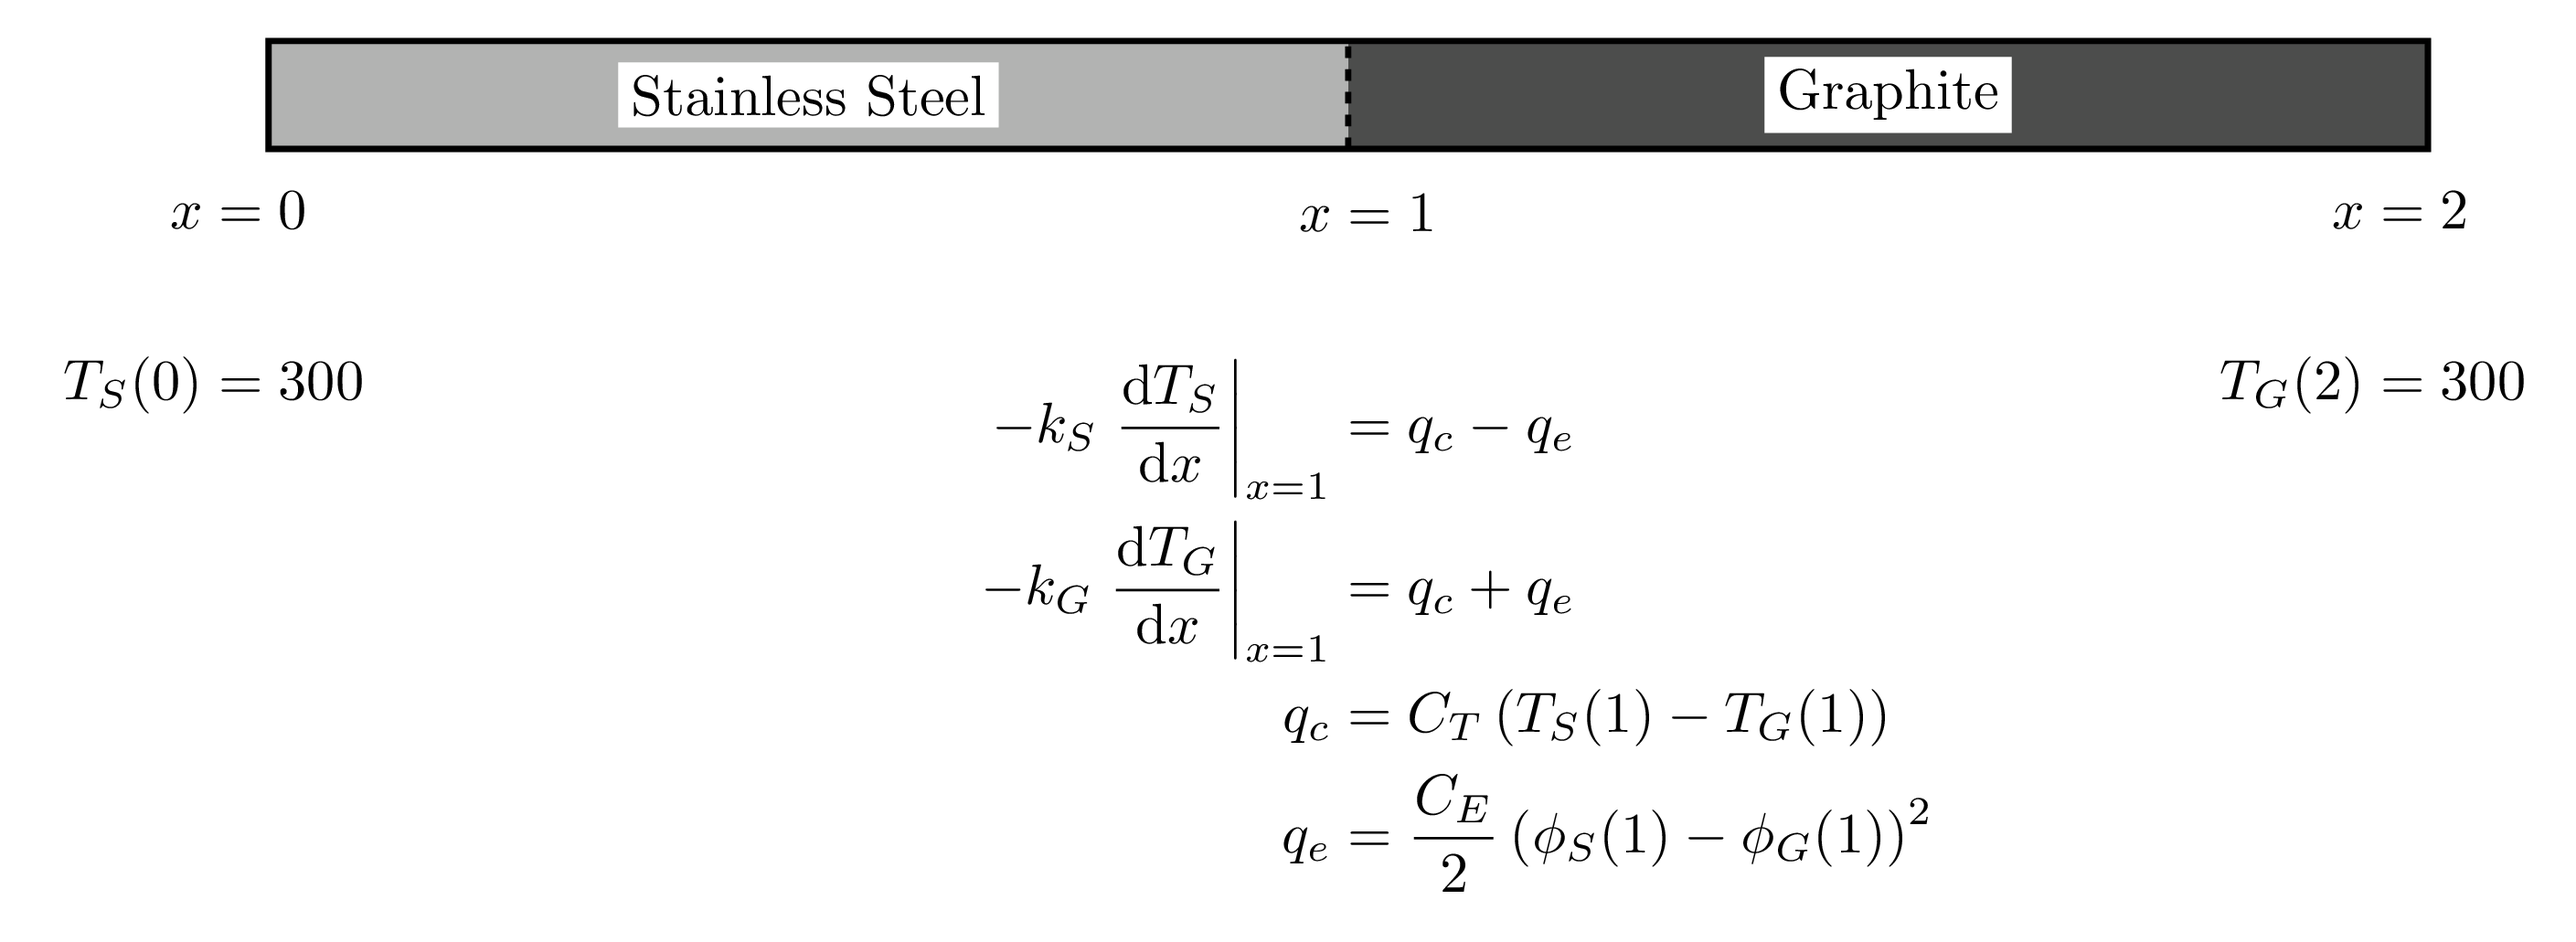
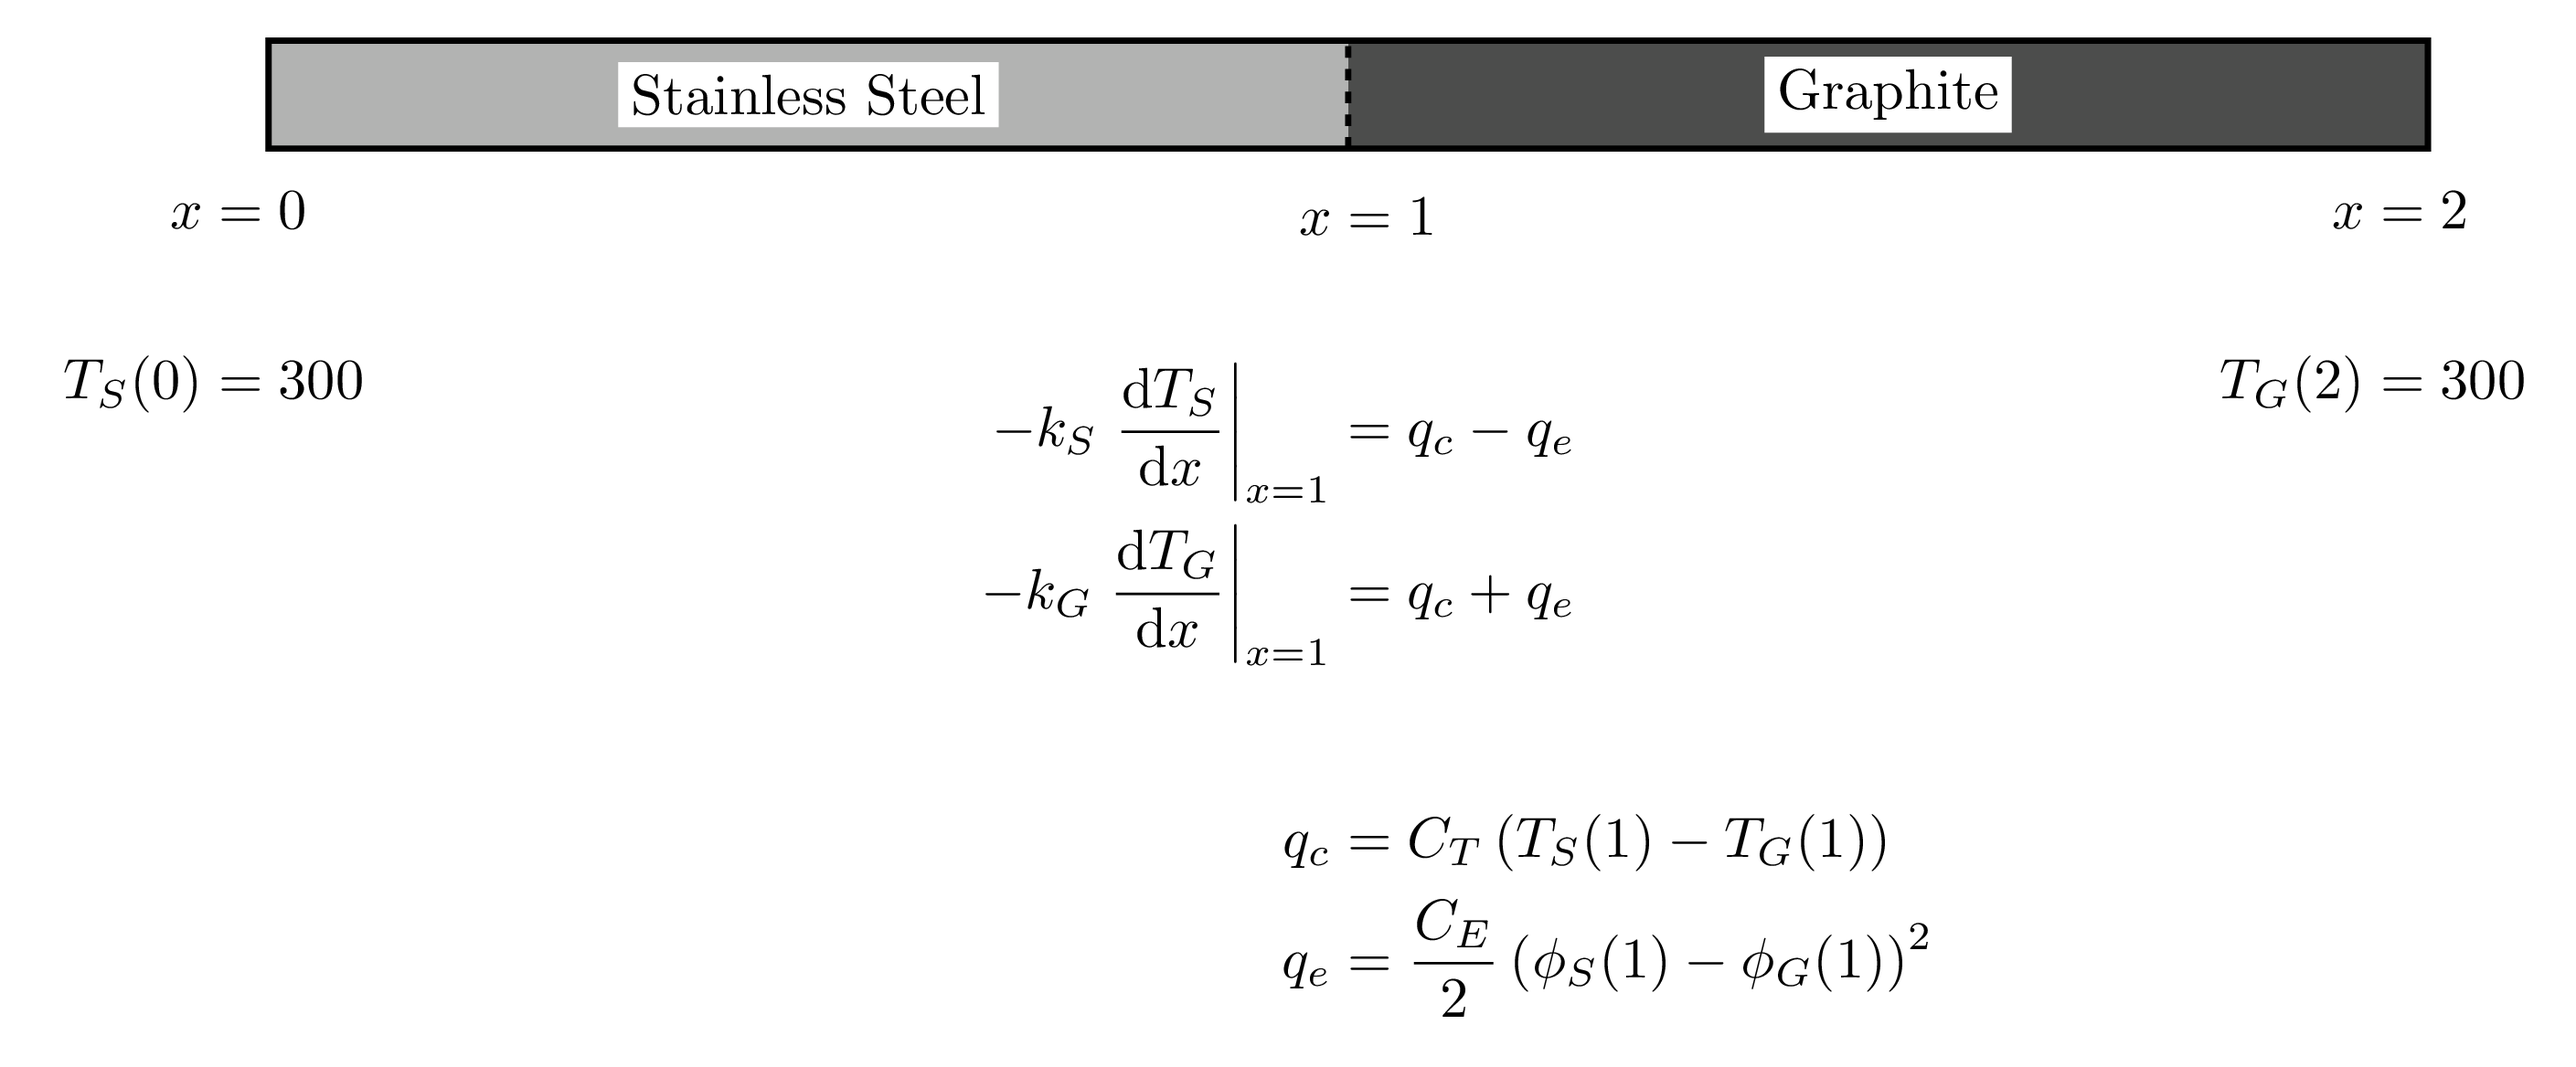
Address review comments (#13)

diff --git a/test/src/functions/ThermalContactTemperatureTestFunc.C b/test/src/functions/ThermalContactTemperatureTestFunc.C
@@ -66,8 +66,12 @@ ThermalContactTemperatureTestFunc::twoBlockFunction(const Point & p) const
   Real stainless_steel_gradient =
       -_electrical_contact_conductance * _electrical_conductivity_graphite / denominator_potential;
 
+  // Value of the analytic temperature function in graphite at the interface (x = 1).
+  // Far right constant value prescribed by problem conditions (see thermal_contact_verification.md)
   Real graphite_func_interface = graphite_gradient * (1. - 2.);
 
+  // Value of the analytic temperature function in stainless steel at the interface (x = 1)
+  // Far right constant value prescribed by problem conditions (see thermal_contact_verification.md)
   Real stainless_steel_func_interface = stainless_steel_gradient + 1.;
 
   // Analytic Temperature Function
@@ -105,11 +109,11 @@ ThermalContactTemperatureTestFunc::twoBlockFunction(const Point & p) const
 
   Real d_G = 300. - 4. * a_G - 2. * b_G;
 
-  if (_domain == STAINLESS_STEEL)
+  if (_domain == DomainEnum::STAINLESS_STEEL)
   {
     return a_SS * p(0) * p(0) + b_SS * p(0) + d_SS;
   }
-  else if (_domain == GRAPHITE)
+  else if (_domain == DomainEnum::GRAPHITE)
   {
     return a_G * p(0) * p(0) + b_G * p(0) + d_G;
   }

diff --git a/doc/content/media/thermal_contact/thermal_two_block.tex b/doc/content/media/thermal_contact/thermal_two_block.tex
@@ -37,11 +37,11 @@
      \end{scaledaligned}
   };
   % interface position marker and interface conditions
-  \node at (10.95, -3.6) {
+  \node at (10.95, -4.2) {
       \begin{scaledaligned}
         x &= 1 \\ \\
         -k_S \left. \frac{\text{d} T_S}{\text{d} x} \right|_{x = 1} &= q_c - q_e \\
-        -k_G \left. \frac{\text{d} T_G}{\text{d} x} \right|_{x = 1} &= q_c + q_e \\
+        -k_G \left. \frac{\text{d} T_G}{\text{d} x} \right|_{x = 1} &= q_c + q_e \\[0.75cm]
         q_c &= C_T \left( T_S (1) - T_G (1) \right) \\
         q_e &= \frac{C_E}{2} \left( \phi_S (1) - \phi_G(1) \right)^2
       \end{scaledaligned}

diff --git a/test/src/functions/ThermalContactPotentialTestFunc.C b/test/src/functions/ThermalContactPotentialTestFunc.C
@@ -55,11 +55,11 @@ ThermalContactPotentialTestFunc::twoBlockFunction(const Point & p) const
 
   Real stainless_steel_func = stainless_steel_coefficient * p(0) + 1;
 
-  if (_domain == STAINLESS_STEEL)
+  if (_domain == DomainEnum::STAINLESS_STEEL)
   {
     return stainless_steel_func;
   }
-  else if (_domain == GRAPHITE)
+  else if (_domain == DomainEnum::GRAPHITE)
   {
     return graphite_func;
   }

diff --git a/doc/content/verification/thermal_contact_verification.md b/doc/content/verification/thermal_contact_verification.md
@@ -27,7 +27,7 @@ It is important to note that in [thermal-two-block-summary]:
 See the [ThermalContactCondition.md] documentation for more information about
 the particular definition of $C_T$ and $C_E$. In order to simplify for the
 analytic solution derivation, the scenario was assumed to be steady state in
-order to remove the time derivative term of the Heat Conduction Equation. The
+order to remove the time derivative term of the heat conduction equation. The
 heating source term is electrothermal (or Joule) heating. This leads to
 
 !equation id=steady-heat-conduction
@@ -58,12 +58,13 @@ V_{Harm} = \frac{2 V_a V_b}{V_a + V_b}
 
 The harmonic mean of hardness for stainless steel and graphite was calculated and
 set to be $2.4797 \times 10^9$ Pa. Harmonic mean values for the conductivities of
-stainless steel and graphite were also calculated in this way, and used to
-determine $C_E$ and $C_T$ (more information on this calculation in
-[ThermalContactCondition.md] documentation). Pressure (also needed in these
-calculations) was set to be $3000$ $kN/m^2$. The calculated contact conductances
-were hard-coded in the input file shown near the bottom of this page, and are
-summarized below in [input-conductance-values].
+stainless steel and graphite were also calculated in this way. Applied mechanical
+pressure was set to be $3000$ $kN/m^2$. The mean hardness, mean conductivities,
+and applied mechanical pressure are all used to determine $C_E$ and $C_T$ (see
+the [ThermalContactCondition.md] documentation, [!citep](cincotti2007sps), and
+[!citep](madhusadana1996) for more information). The resulting calculated
+contact conductances were hard-coded in the input file shown near the bottom
+of this page, and are summarized below in [input-conductance-values].
 
 !table id=input-conductance-values caption=Thermal and electrical conductance values used in the thermal contact verification input file.
 | Conductance (units) | Value |
@@ -102,7 +103,7 @@ an auxiliary coupled variable). Both of these can be found in `freya/test/src`.
 !style halign=left
 In 1-D, [!eqref](steady-heat-conduction) becomes
 
-!equation
+!equation id=derivation-differential-equation
 -k_i \frac{\text{d}^2 T_i}{\text{d} x^2} = \sigma_{el, i} \left( \frac{\text{d} \phi_i}{\text{d} x} \right)^2
 
 since $k_i$ is constant in both domains. Given that the gradient of the potential
@@ -115,11 +116,11 @@ T_i (x) = A_i x^2 + B_i x + D_i
 
 where $A_i$, $B_i$, and $D_i$ are to-be-determined constant coefficients.
 
-### Apply PDE
+### Apply differential equation
 
 !style halign=left
-Using the PDE, we can determine $A$ for both the stainless steel and graphite
-domains:
+Using [!eqref](derivation-differential-equation) and [!eqref](general-form), we can determine $A$ for both
+the stainless steel and graphite domains:
 
 !row!
 !col! small=12 medium=6 large=6

diff --git a/doc/content/media/thermal_contact/README.md b/doc/content/media/thermal_contact/README.md
@@ -1,16 +1,13 @@
-# Freya Thermal Contact Media Folder How-To
+# Freya Thermal Contact Media Folder README
 
-NOTE: ALL commands below must be run in the `freya/doc/content/media/thermal_contact`
-directory! A working LaTeX distribution (with TikZ) is also required!
+NOTE: A working LaTeX distribution (with the TikZ package) and ImageMagick is
+required for these instructions.
 
-To make a PDF image of Freya thermal contact verification test summary, simply
-run `make`.
+To update the `thermal_two_block.png` file based on changes in the image source
+file, run the following two commands in your Terminal in
+`freya/doc/content/media/thermal_contact`:
 
-To make PNG images of Freya thermal contact media (and update the current version
-based on changes in the image source files) run `make png`. This requires an
-ImageMagick installation! Note that metadata in all generated PNG files will
-change, showing git diffs. Only commit those PNG files whose visual content
-*actually* changed due to code changes!
-
-To clean the directory of the generated PDF, log files, and intermediate LaTeX
-files, run `make clean`.
+```
+% pdflatex thermal_two_block.tex
+% convert -density 300 thermal_two_block.pdf -quality 90 thermal_two_block.png
+```
